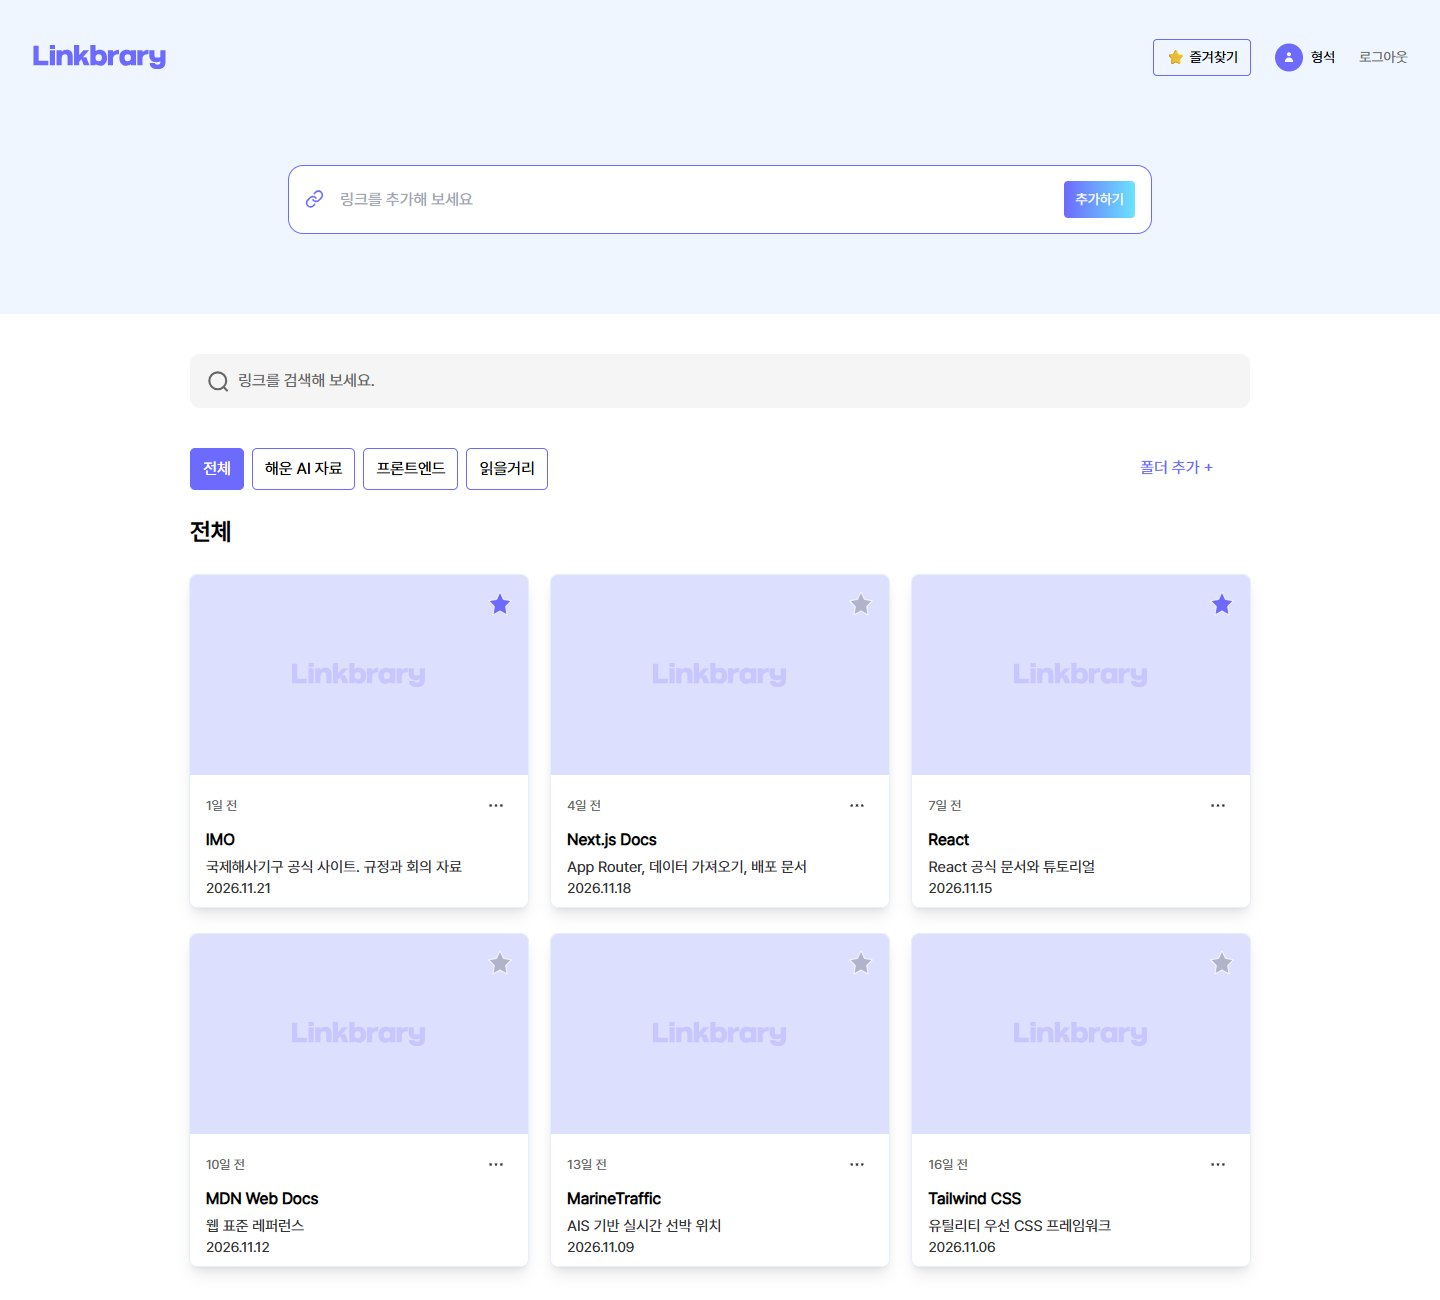
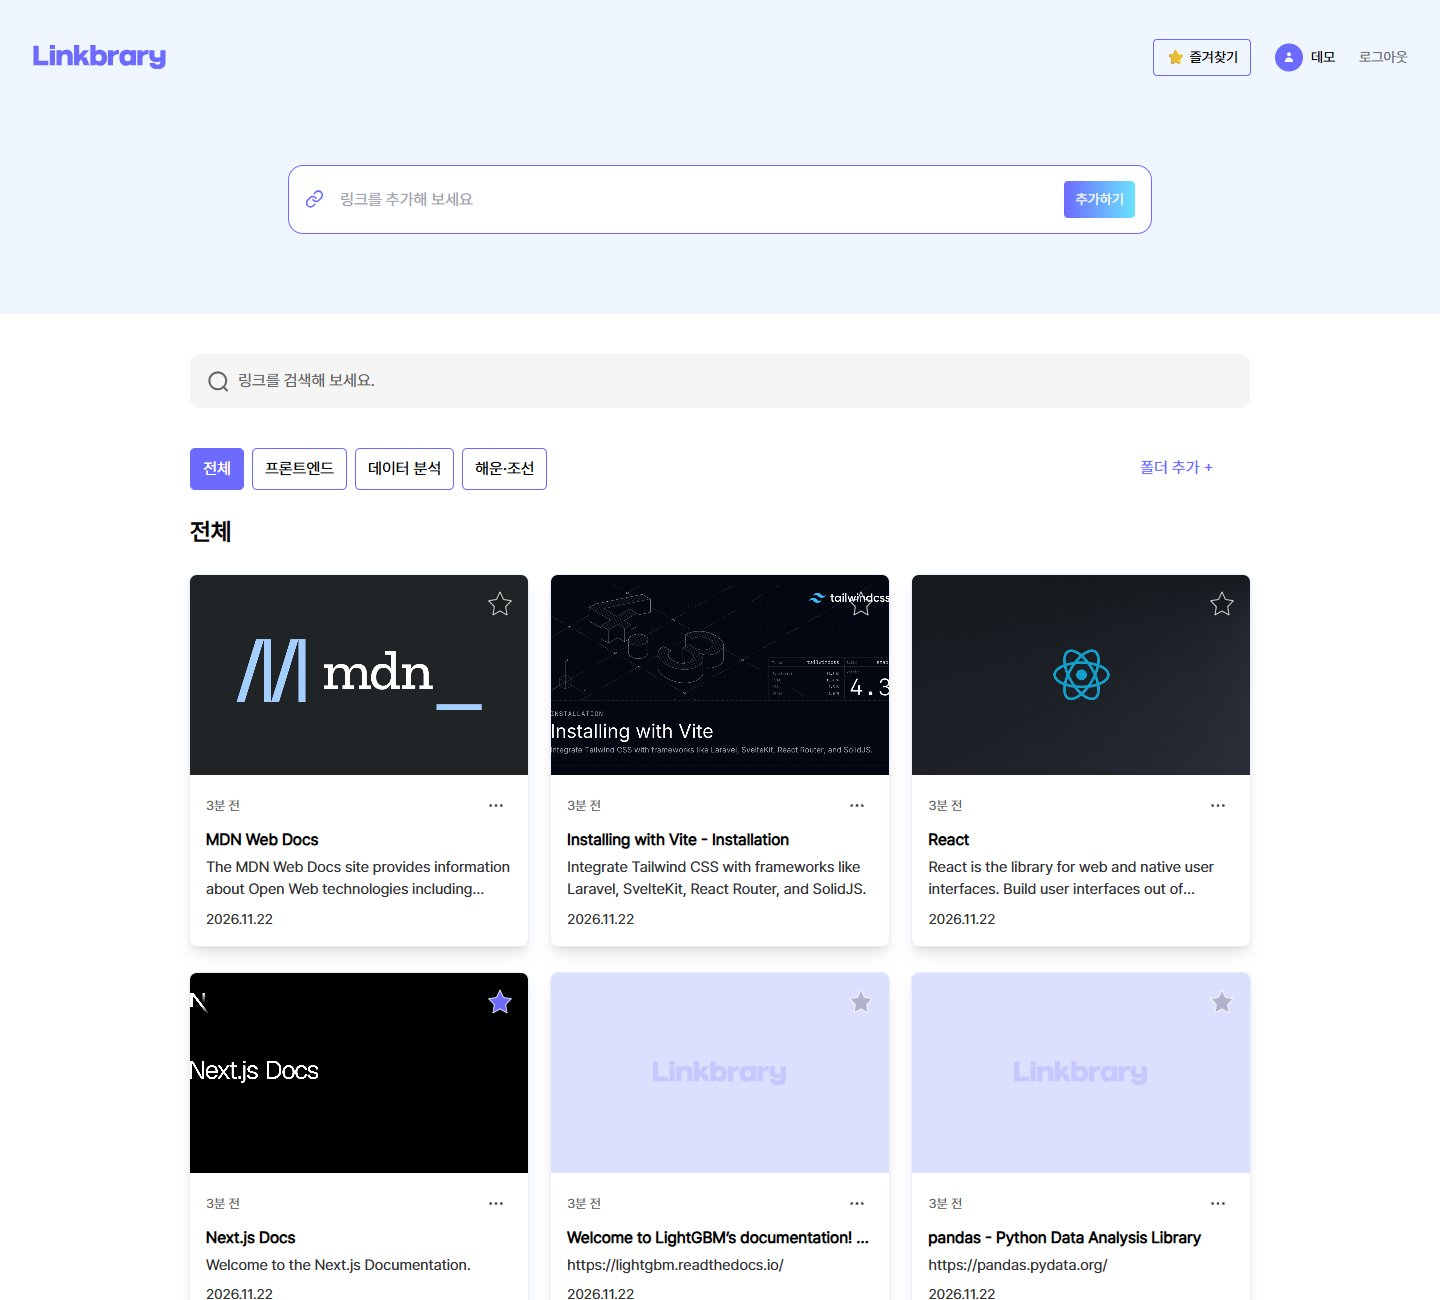
fix: 카드 등록일 잘림과 깨진 미리보기 이미지 수정, 실제 데이터 화면으로 교체
- 설명이 두 줄이면 고정 높이 카드에서 등록일이 잘리던 문제 수정 (min-h)
- 외부 사이트가 미리보기 이미지를 막으면 깨진 아이콘 대신 기본 이미지 표시 (LinkThumbnail)
- README 화면 캡처를 데모 계정 실제 데이터로 교체, 데모 계정 파일은 gitignore

Changed region(s): [[0.125, 0.4308, 0.875, 1.0], [0.1875, 0.3385, 0.375, 0.3692], [0.9062, 0.0308, 0.9375, 0.0615]]

diff --git a/src/components/Card.tsx b/src/components/Card.tsx
@@ -3,7 +3,7 @@
 import { getLinks, getFavorites, putFavoriteLink, getLinksByFolderId } from '@/api/api';
 import { useState, useEffect } from 'react';
 import Image from 'next/image';
-import NoImage from '../../public/images/NoImage.svg';
+import LinkThumbnail from './LinkThumbnail';
 import starEmpty from '../../public/icons/ic_star_empty.svg';
 import starFill from '../../public/icons/ic_star_fill.svg';
 import { usePathname } from 'next/navigation';
@@ -135,7 +135,7 @@ export default function Card({
             return (
               <li
                 key={link.id}
-                className="w-[340px] h-[334px] relative overflow-hidden rounded-lg border bg-white shadow-lg"
+                className="w-[340px] min-h-[334px] relative overflow-hidden rounded-lg border bg-white shadow-lg"
               >
                 <div className="relative block h-full w-full">
                   <Link
@@ -143,13 +143,10 @@ export default function Card({
                     target="_blank"
                     className="absolute inset-0 z-0"
                   />
-                  <Image
-                    src={link.imageSource || NoImage}
+                  <LinkThumbnail
+                    src={link.imageSource}
                     alt="링크 이미지"
-                    width={340}
-                    height={200}
                     className="object-cover w-[340px] h-[200px]"
-                    unoptimized
                   />
                   {isLinks && (
                     <button
@@ -195,7 +192,7 @@ export default function Card({
                     <p className="mt-1 line-clamp-2 text-[15px] text-[#333236]">
                       {link.description || link.url}
                     </p>
-                    <p className="text-[14px] text-[#333333]">{absoluteDate}</p>
+                    <p className="mt-2 text-[14px] text-[#333333]">{absoluteDate}</p>
                   </div>
                 </div>
               </li>

diff --git a/src/app/share/page.tsx b/src/app/share/page.tsx
@@ -5,7 +5,7 @@ import Image from 'next/image';
 import Link from 'next/link';
 import { useSearchParams } from 'next/navigation';
 import Logo from '../../../public/icons/logo.svg';
-import NoImage from '../../../public/images/NoImage.svg';
+import LinkThumbnail from '@/components/LinkThumbnail';
 import { getFolderById, getLinksByFolderId } from '@/api/api';
 import { FolderResponse, LinkResponse } from '@/types/api';
 import { formatUpdatedAt } from '@/utils/date';
@@ -75,14 +75,7 @@ function SharedFolder() {
             {links.map((link) => (
               <li key={link.id} className="overflow-hidden rounded-lg border bg-white shadow-lg transition hover:-translate-y-0.5">
                 <a href={LinkData(link.url) ? link.url : `https://${link.url}`} target="_blank" rel="noopener noreferrer" className="block">
-                  <Image
-                    src={link.imageSource || NoImage}
-                    alt=""
-                    width={340}
-                    height={200}
-                    className="h-[200px] w-full object-cover"
-                    unoptimized
-                  />
+                  <LinkThumbnail src={link.imageSource} className="h-[200px] w-full object-cover" />
                   <div className="p-4">
                     <p className="text-[13px] text-[#666666]">{formatUpdatedAt(link.createdAt)}</p>
                     {link.title && <p className="mt-2 line-clamp-1 font-semibold text-black">{link.title}</p>}

diff --git a/src/components/LinkThumbnail.tsx b/src/components/LinkThumbnail.tsx
@@ -1,0 +1,32 @@
+'use client';
+
+import Image from 'next/image';
+import { useEffect, useState } from 'react';
+import NoImage from '../../public/images/NoImage.svg';
+
+type LinkThumbnailProps = {
+  src: string | null | undefined;
+  className?: string;
+  alt?: string;
+};
+
+// 링크 미리보기 이미지. 주소가 없거나 외부 사이트가 이미지를 막아 불러오지 못하면 기본 이미지를 보여 준다.
+export default function LinkThumbnail({ src, className, alt = '' }: LinkThumbnailProps) {
+  const [failed, setFailed] = useState(false);
+
+  useEffect(() => {
+    setFailed(false);
+  }, [src]);
+
+  return (
+    <Image
+      src={!src || failed ? NoImage : src}
+      alt={alt}
+      width={340}
+      height={200}
+      className={className}
+      unoptimized
+      onError={() => setFailed(true)}
+    />
+  );
+}

diff --git a/README.md b/README.md
@@ -8,7 +8,7 @@
 | --- | --- |
 | ![링크](docs/screenshots/links.jpg) | ![공유](docs/screenshots/share.jpg) |
 
-화면 캡처의 폴더와 링크는 화면을 보여 주기 위한 예시 데이터입니다.
+화면 캡처는 데모 계정에 실제 링크 12개(폴더 3개)를 등록하고 찍은 것입니다.
 
 ### 마무리한 것
 
@@ -19,6 +19,8 @@
 - **레이아웃** — 대시보드 레이아웃이 `<html>`·`<body>`를 한 번 더 그리던 중첩을 없앴습니다.
 - **카드** — 링크 제목을 보여 주고, 'minutes ago'와 30일 넘으면 무조건 'a month ago'로 나오던 시간을
   '3분 전', '2개월 전', '1년 전'처럼 한국어로 바꿨습니다. 폴더별 링크 수로 페이지 수를 계산하던 버그도 고쳤습니다.
+- **카드** (실제 데이터로 점검하며 발견) — 설명이 두 줄이면 카드 높이가 고정돼 등록일이 잘리던 것을 고치고,
+  외부 사이트가 미리보기 이미지를 막아 깨진 이미지 아이콘이 나오던 것을 기본 이미지로 바꿨습니다(`LinkThumbnail`).
 - **정리** — 개발용 `/test` 페이지 삭제, 비어 있던 자주 묻는 질문·개인정보 안내 페이지 작성.
 
 ---
